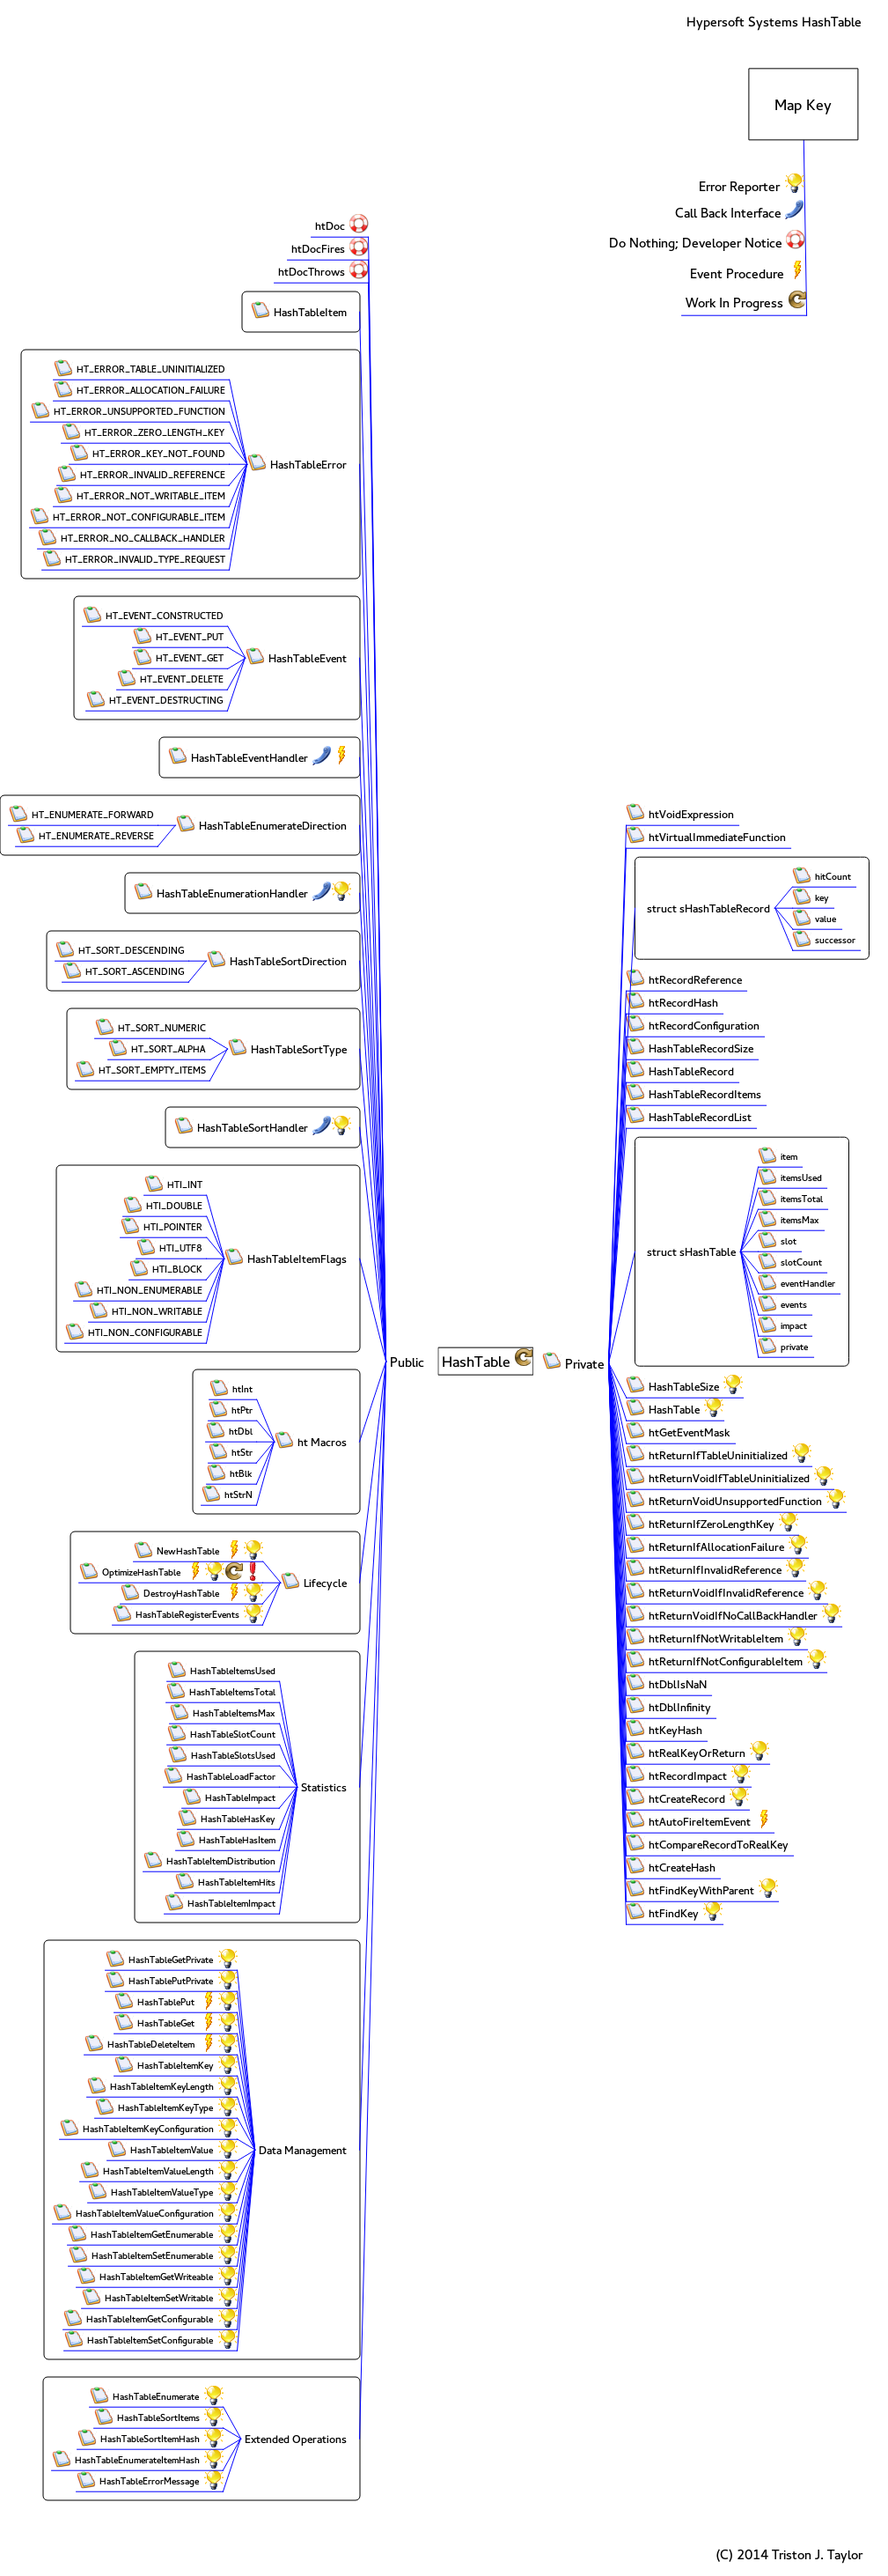
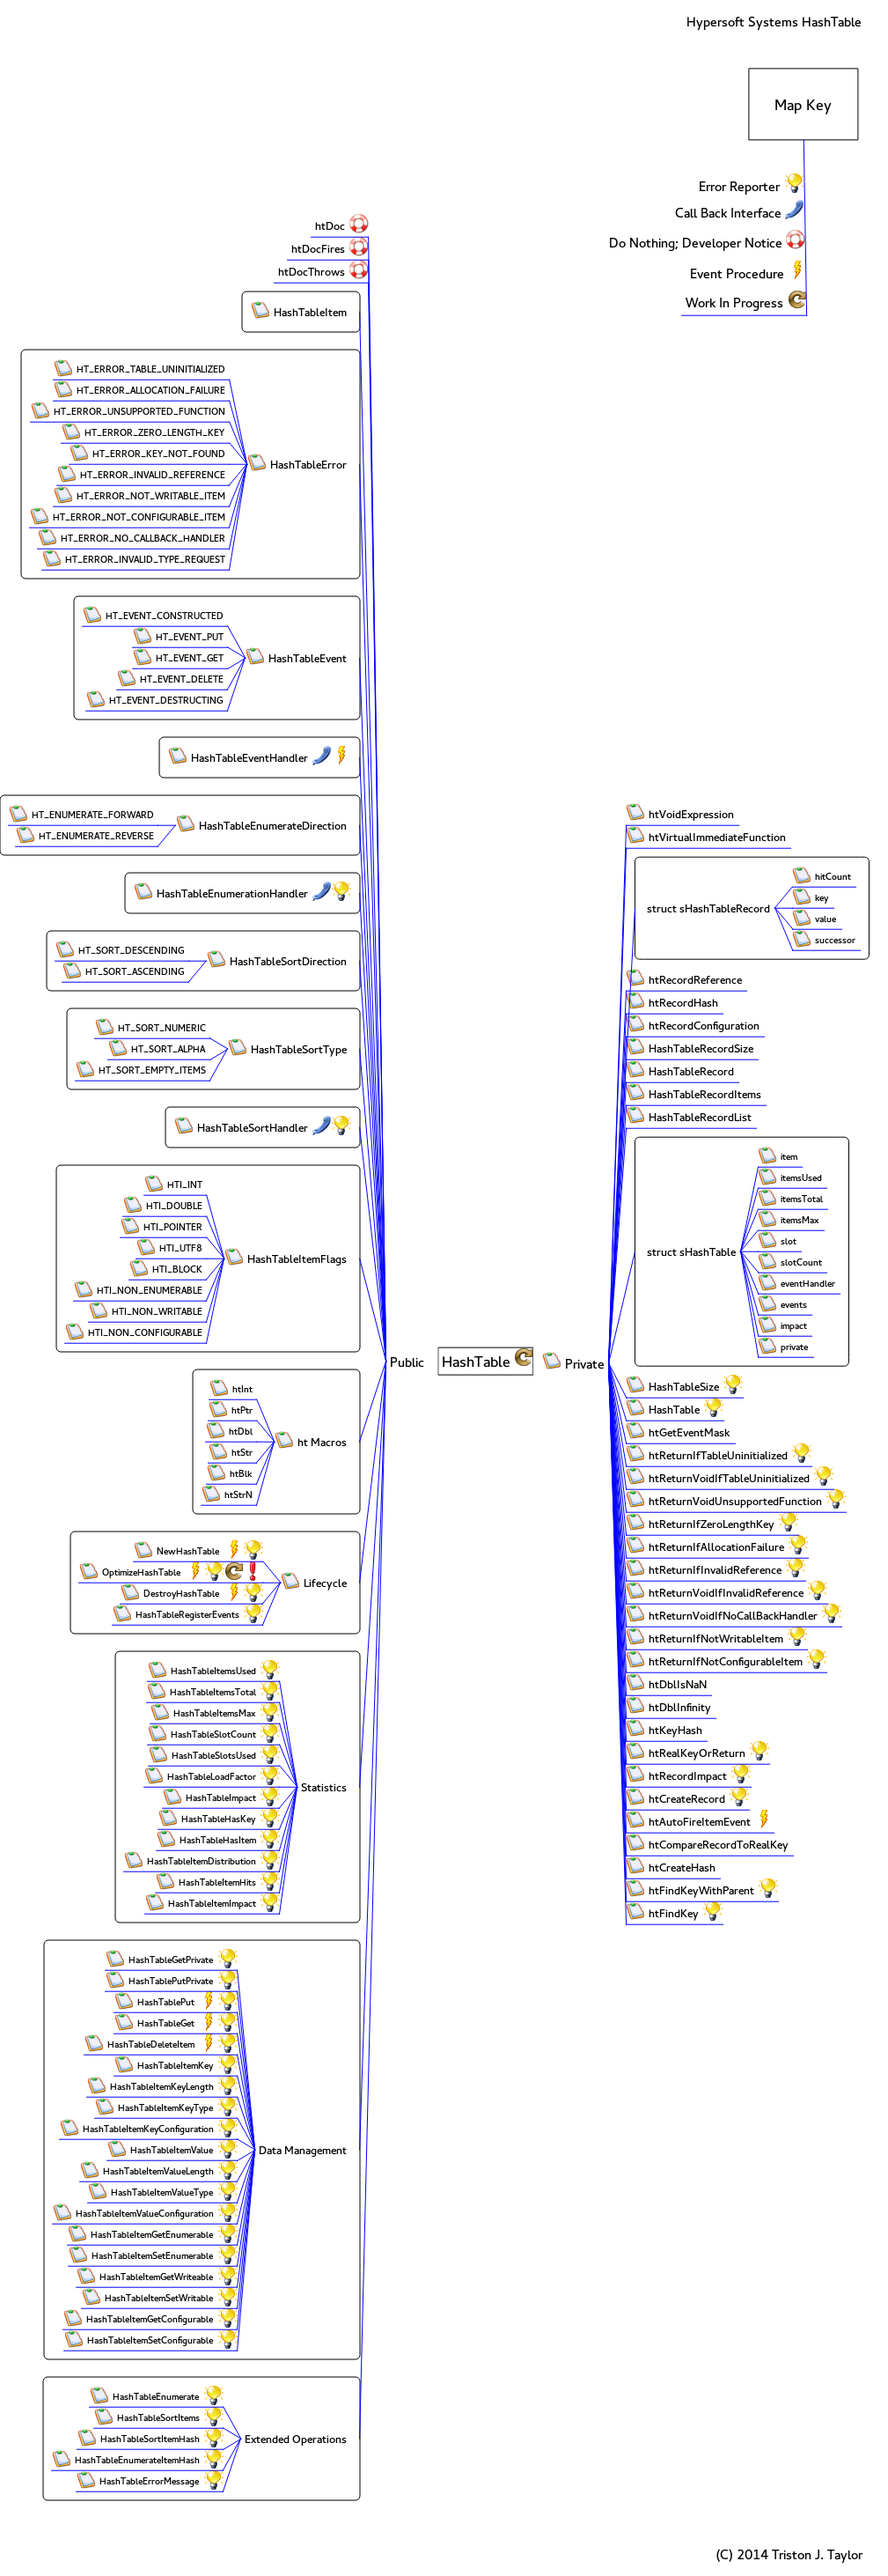
corrected misprint

Changed region(s): [[0.1229, 0.6222, 0.338, 0.7467]]

diff --git a/HashTable.html b/HashTable.html
@@ -236,27 +236,27 @@ parameter list htInt(size_t i)<br/><br/>Returns parameter list for API functions
 </li>
 <li><span class='vym-branch3'  id='mc:1,bo:0,bo:13,bo:1'>htPtr</span>
 <table class="vym-note"><tr><td>
-parameter list htInt(void * p)<br/><br/>Returns parameter list for API functions to diagnose and transpose a pointer as a record key or value.<br/>
+parameter list htPtr(void * p)<br/><br/>Returns parameter list for API functions to diagnose and transpose a pointer as a record key or value.<br/>
 </td></tr></table>
 </li>
 <li><span class='vym-branch3'  id='mc:1,bo:0,bo:13,bo:2'>htDbl</span>
 <table class="vym-note"><tr><td>
-parameter list htInt(dobule d)<br/><br/>Returns parameter list for API functions to diagnose and transpose a double as a record key or value.<br/>
+parameter list htDbl(dobule d)<br/><br/>Returns parameter list for API functions to diagnose and transpose a double as a record key or value.<br/>
 </td></tr></table>
 </li>
 <li><span class='vym-branch3'  id='mc:1,bo:0,bo:13,bo:3'>htStr</span>
 <table class="vym-note"><tr><td>
-parameter list htInt(char * s)<br/><br/>Returns parameter list for API functions to diagnose and transpose an ANSI or UTF-8 string as a record key or value.<br/>
+parameter list htStr(char * s)<br/><br/>Returns parameter list for API functions to diagnose and transpose an ANSI or UTF-8 string as a record key or value.<br/>
 </td></tr></table>
 </li>
 <li><span class='vym-branch3'  id='mc:1,bo:0,bo:13,bo:4'>htBlk</span>
 <table class="vym-note"><tr><td>
-parameter list htInt(void * b, size_t length)<br/><br/>Returns parameter list for API functions to diagnose and transpose an arbitrary block of data with specified length as a record key or value.<br/>
+parameter list htBlk(void * b, size_t length)<br/><br/>Returns parameter list for API functions to diagnose and transpose an arbitrary block of data with specified length as a record key or value.<br/>
 </td></tr></table>
 </li>
 <li><span class='vym-branch3'  id='mc:1,bo:0,bo:13,bo:5'>htStrN</span>
 <table class="vym-note"><tr><td>
-parameter list htInt(char * s, size_t length)<br/><br/>Returns parameter list for API functions to diagnose and transpose an arbitrary length ANSI or UTF-8 string pointer as a record key or value.<br/>
+parameter list htStrN(char * s, size_t length)<br/><br/>Returns parameter list for API functions to diagnose and transpose an arbitrary length ANSI or UTF-8 string pointer as a record key or value.<br/>
 </td></tr></table>
 </li>
 </ul>
@@ -795,18 +795,18 @@ HashTableRecord htFindKey(HashTable table, size_t keyLength, void * realKey)<br/
   <area shape='rect' coords='159,1797.03,255,1821.03' href='#mc:1,bo:0,bo:14,bo:2'>
   <area shape='rect' coords='150,1821.03,277,1845.03' href='#mc:1,bo:0,bo:14,bo:3'>
   <area shape='rect' coords='338,2016.03,399,2042.03' href='#mc:1,bo:0,bo:15'>
-  <area shape='rect' coords='212,1885.03,318,1909.03' href='#mc:1,bo:0,bo:15,bo:0'>
-  <area shape='rect' coords='211,1909.03,318,1933.03' href='#mc:1,bo:0,bo:15,bo:1'>
-  <area shape='rect' coords='215,1933.03,318,1957.03' href='#mc:1,bo:0,bo:15,bo:2'>
-  <area shape='rect' coords='212,1957.03,318,1981.03' href='#mc:1,bo:0,bo:15,bo:3'>
-  <area shape='rect' coords='213,1981.03,318,2005.03' href='#mc:1,bo:0,bo:15,bo:4'>
-  <area shape='rect' coords='208,2005.03,318,2029.03' href='#mc:1,bo:0,bo:15,bo:5'>
-  <area shape='rect' coords='229,2029.03,318,2053.03' href='#mc:1,bo:0,bo:15,bo:6'>
-  <area shape='rect' coords='224,2053.03,318,2077.03' href='#mc:1,bo:0,bo:15,bo:7'>
-  <area shape='rect' coords='222,2077.03,318,2101.03' href='#mc:1,bo:0,bo:15,bo:8'>
-  <area shape='rect' coords='185,2101.03,318,2125.03' href='#mc:1,bo:0,bo:15,bo:9'>
-  <area shape='rect' coords='221,2125.03,318,2149.03' href='#mc:1,bo:0,bo:15,bo:10'>
-  <area shape='rect' coords='209,2149.03,318,2173.03' href='#mc:1,bo:0,bo:15,bo:11'>
+  <area shape='rect' coords='190,1885.03,296,1909.03' href='#mc:1,bo:0,bo:15,bo:0'>
+  <area shape='rect' coords='189,1909.03,296,1933.03' href='#mc:1,bo:0,bo:15,bo:1'>
+  <area shape='rect' coords='193,1933.03,296,1957.03' href='#mc:1,bo:0,bo:15,bo:2'>
+  <area shape='rect' coords='190,1957.03,296,1981.03' href='#mc:1,bo:0,bo:15,bo:3'>
+  <area shape='rect' coords='191,1981.03,296,2005.03' href='#mc:1,bo:0,bo:15,bo:4'>
+  <area shape='rect' coords='186,2005.03,296,2029.03' href='#mc:1,bo:0,bo:15,bo:5'>
+  <area shape='rect' coords='207,2029.03,296,2053.03' href='#mc:1,bo:0,bo:15,bo:6'>
+  <area shape='rect' coords='202,2053.03,296,2077.03' href='#mc:1,bo:0,bo:15,bo:7'>
+  <area shape='rect' coords='200,2077.03,296,2101.03' href='#mc:1,bo:0,bo:15,bo:8'>
+  <area shape='rect' coords='163,2101.03,296,2125.03' href='#mc:1,bo:0,bo:15,bo:9'>
+  <area shape='rect' coords='199,2125.03,296,2149.03' href='#mc:1,bo:0,bo:15,bo:10'>
+  <area shape='rect' coords='187,2149.03,296,2173.03' href='#mc:1,bo:0,bo:15,bo:11'>
   <area shape='rect' coords='290,2428.03,399,2454.03' href='#mc:1,bo:0,bo:16'>
   <area shape='rect' coords='142,2213.03,248,2237.03' href='#mc:1,bo:0,bo:16,bo:0'>
   <area shape='rect' coords='142,2237.03,248,2261.03' href='#mc:1,bo:0,bo:16,bo:1'>
